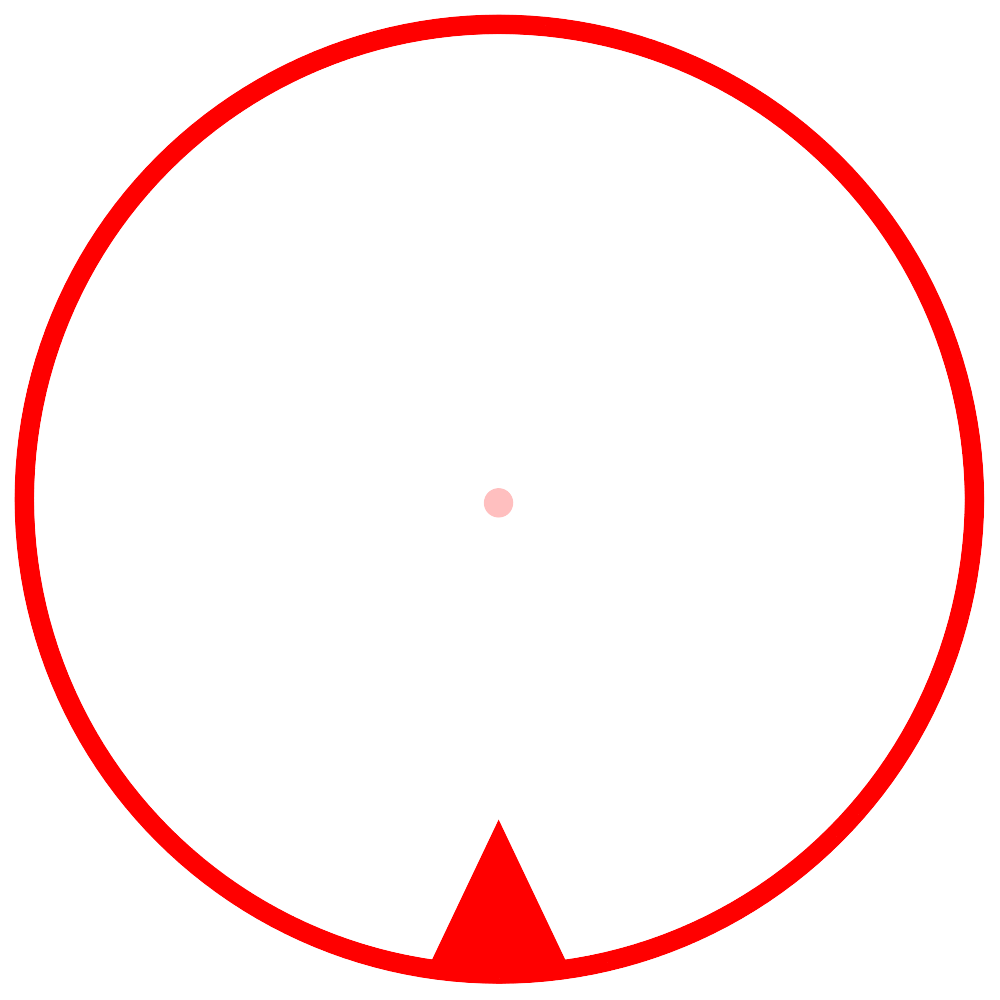
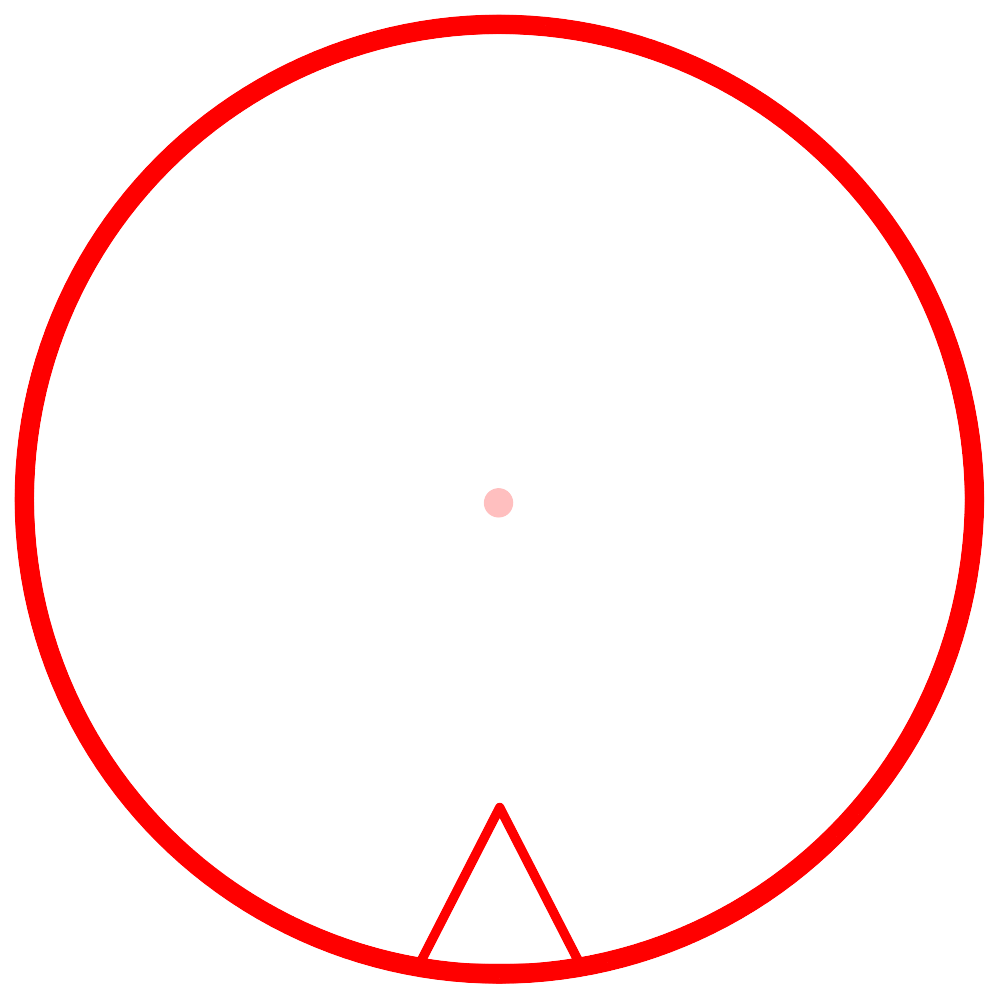
bug fix for viewing angle

Changed region(s): [[0.403, 0.806, 0.589, 0.961]]

diff --git a/TargetVisualization/TargetVisualization.py b/TargetVisualization/TargetVisualization.py
@@ -112,18 +112,20 @@ class BullseyeCanvasWidget(qt.QWidget):
         self._relZ = 0.0
         self._pointerAngle = 0.0
         self._pointerProjLen = 0.0
+        self._zRotation = 0.0
 
         palette = self.palette
         palette.setColor(qt.QPalette.Window, qt.QColor(255, 255, 255))
         self.setPalette(palette)
         self.setAutoFillBackground(True)
 
-    def updateFromRelativeTransform(self, relX, relY, relZ, pointerAngle, pointerProjLen):
+    def updateFromRelativeTransform(self, relX, relY, relZ, pointerAngle, pointerProjLen, zRotation):
         self._relX = relX
         self._relY = relY
         self._relZ = relZ
         self._pointerAngle = pointerAngle
         self._pointerProjLen = pointerProjLen
+        self._zRotation = zRotation
         self.update()
 
     def paintEvent(self, event):
@@ -153,7 +155,7 @@ class BullseyeCanvasWidget(qt.QWidget):
         if self._pointerProjLen > 1e-6:
             painter.save()
             painter.translate(center, center)
-            painter.rotate(-math.degrees(self._pointerAngle))
+            painter.rotate(math.degrees(self._pointerAngle))
             ptrW = self._pixPointer.width() if self._pixPointer.width() > 0 else 1000
             ptrH = self._pixPointer.height() if self._pixPointer.height() > 0 else 1000
             ptrScale = canvasSize / float(ptrW)
@@ -161,12 +163,13 @@ class BullseyeCanvasWidget(qt.QWidget):
             painter.drawPixmap(int(-ptrW / 2), int(-ptrH / 2), self._pixPointer)
             painter.restore()
 
-        # Layer 3: current bullseye (translated by relX/relY, scaled by exp(-|relZ|))
+        # Layer 3: current bullseye (translated by relX/relY, rotated by zRotation, scaled by exp(-|relZ|))
         painter.save()
-        txPx = center + self._relX * mmToPx
-        tyPx = center - self._relY * mmToPx
-        zScale = math.exp(-abs(self._relZ))
+        txPx = center - self._relX * mmToPx
+        tyPx = center + self._relY * mmToPx
+        zScale = math.exp(-abs(self._relZ / 1000.0))
         painter.translate(txPx, tyPx)
+        painter.rotate(math.degrees(self._zRotation))
         curW = self._pixCurrent.width() if self._pixCurrent.width() > 0 else 1000
         curH = self._pixCurrent.height() if self._pixCurrent.height() > 0 else 1000
         curScale = imgScale * zScale
@@ -493,8 +496,10 @@ class TargetVisualizationWidget(ScriptedLoadableModuleWidget, VTKObservationMixi
             pointerProjLen = math.sqrt(kx * kx + ky * ky)
             pointerAngle = math.atan2(ky, kx)
 
+        zRotation = math.atan2(r10, r00)
+
         self._bullseyeCanvas.updateFromRelativeTransform(
-            relX, relY, relZ, pointerAngle, pointerProjLen)
+            relX, relY, relZ, pointerAngle, pointerProjLen, zRotation)
 
     def onPushStopTargetViz(self):
         msg = self.logic._commandsData["VISUALIZE_STOP"]